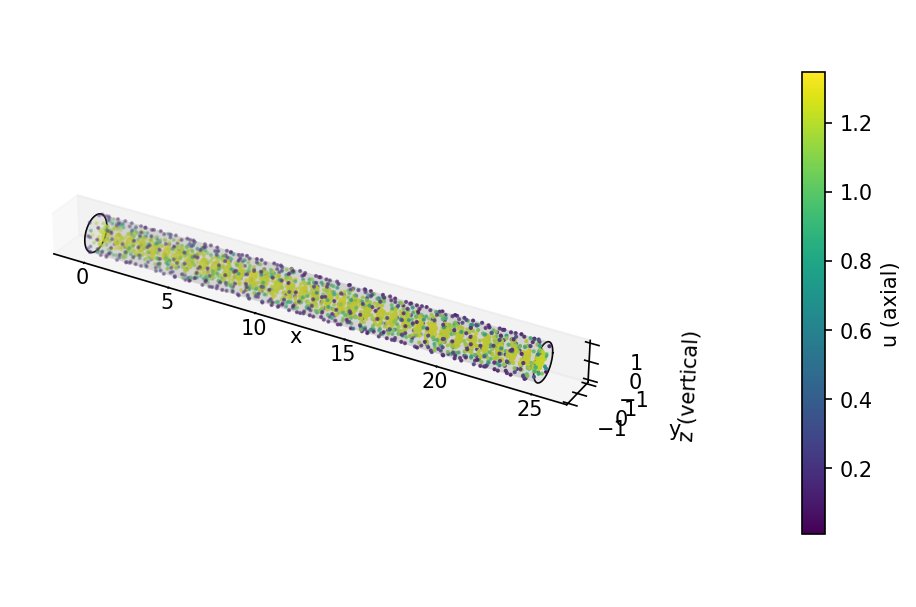
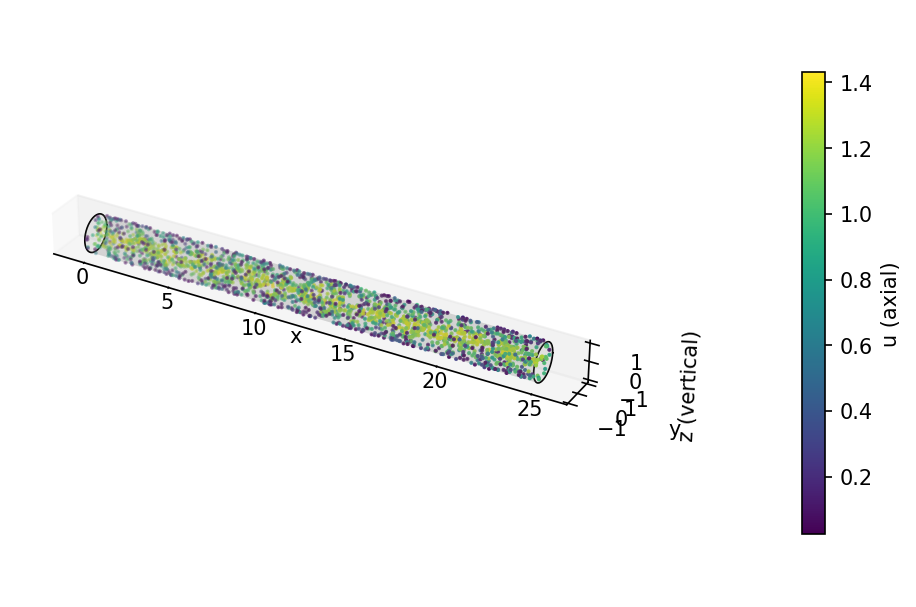
update the README

diff --git a/straight_pipe/README.md b/straight_pipe/README.md
@@ -1,4 +1,4 @@
-# Pipeflow at Re_b=5300 and Re_tau = 180, with lagrangian particle tracking.
+# Pipeflow at Re_b=5300 and Re_tau = 180, with lagrangian particle tracking with particle Stokes number 50.
 
 ## running
 0. Compile turb_pipe.f90 for an neko executable;
@@ -8,3 +8,16 @@
 
 ## Note
 1. particle_generator.py is written for helical pipes, however, by setting the curvature and torsion to be 0, a straight pipe could be adapted for.
+
+## expected results
+For the current setting, the particle start from the following state:
+<p align="left">
+  <img src="particles_ic_3d.png" width="30%">
+  <img src="particles_ic_cross_section.png" width="26.7%">
+</p>
+
+With time progression, the particle field looks like:
+<p align="left">
+  <img src="tracers_3d.png" width="34.5%">
+  <img src="tracers_cross_section.png" width="26.7%">
+</p>
